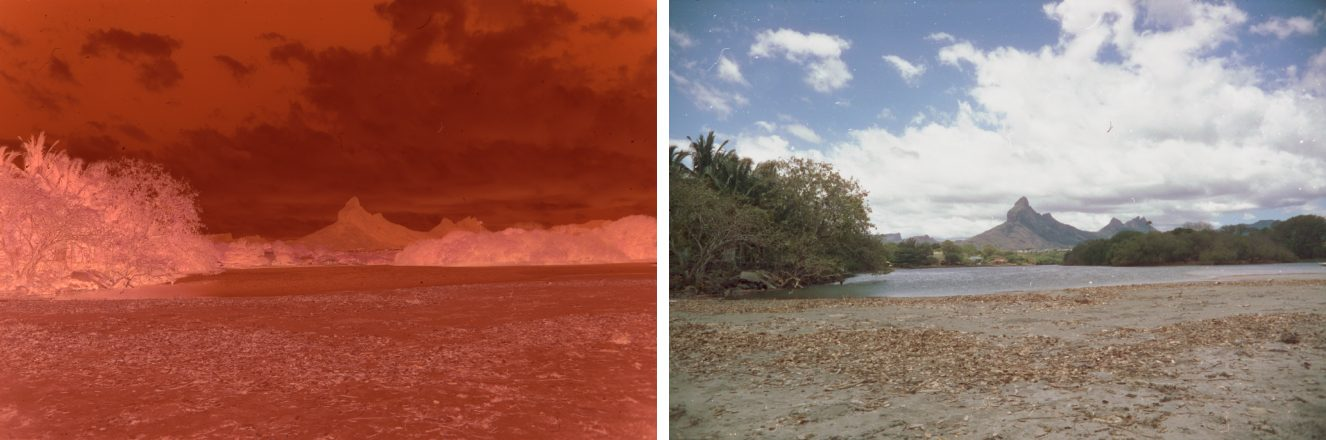
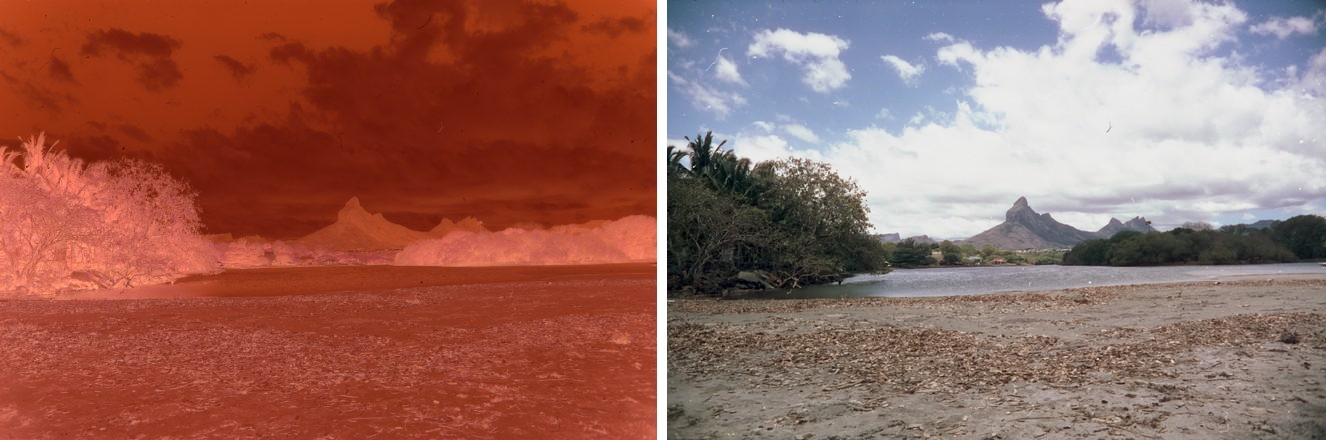
Regenerate the web scan samples with the current automatic conversion and update the README text

diff --git a/README.md b/README.md
@@ -143,7 +143,7 @@ work well yet.
 
 Three scans people posted on the [pixls.us](https://discuss.pixls.us) forum, taken with cameras and lamps the
 profiles were not made with. Left: the scan as the camera saw it. Right: `neg_process` with
-`--film_stock portra400 --light_source d65 -P srgb`. The frame crop was given by hand.
+`--film_stock portra400 --light_source d65 --roi auto -P srgb`, everything else automatic.
 
 ![Mauritius mountain with river mouth](samples/web_5e74adc30c.jpg)
 
@@ -153,7 +153,7 @@ profiles were not made with. Left: the scan as the camera saw it. Right: `neg_pr
 ![Hands holding a marble](samples/web_72a0a8b2e5.jpg)
 
 *Nikon D810.* [Negative inversion challenge! Skin tones and greens](https://discuss.pixls.us/t/59155/1), posted by
-DanielE, 2026-07-11. Converted with `--fit_curves off --tone_stage off`.
+DanielE, 2026-07-11.
 
 ![Fête du Travail](samples/web_d216d498d5.jpg)
 
